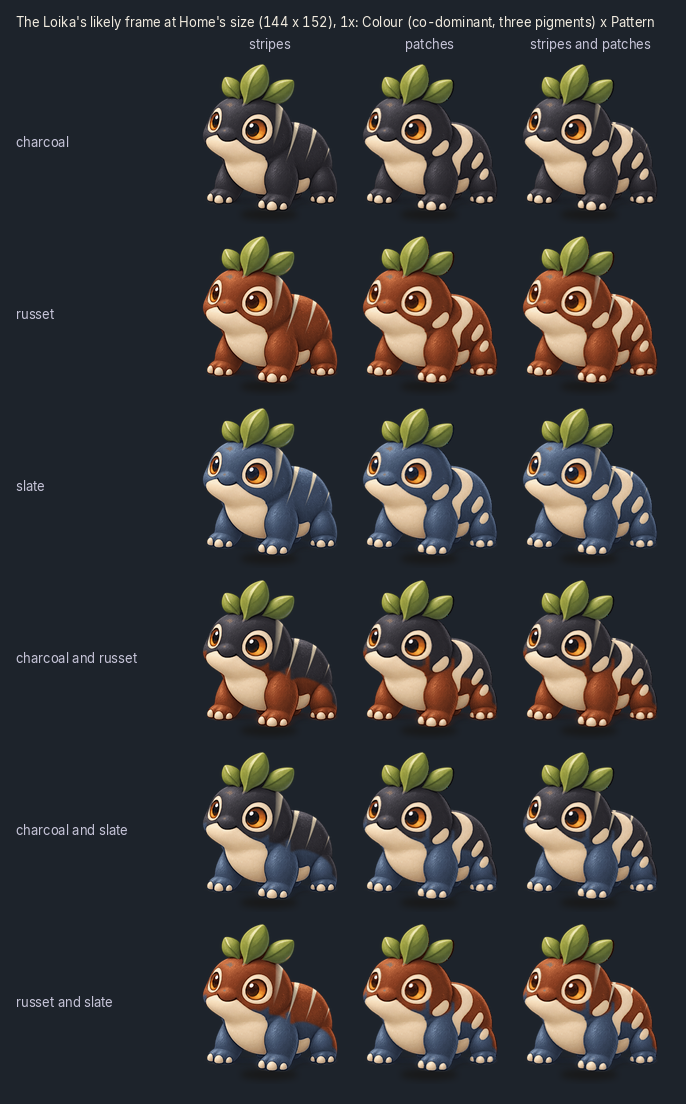
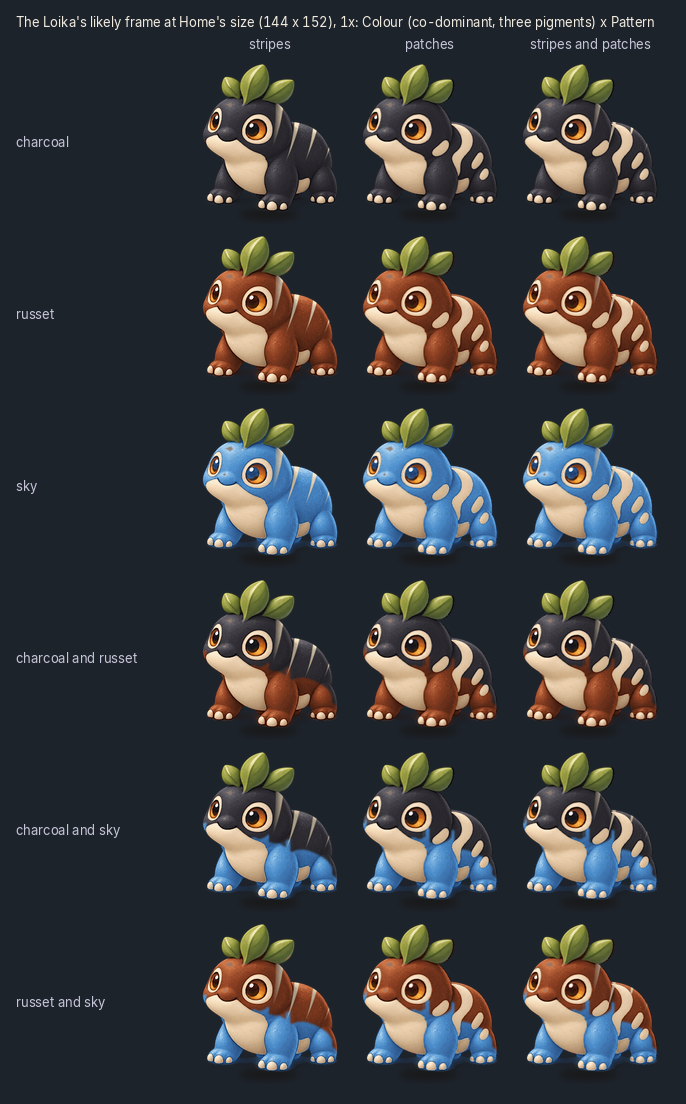
T-20261016-200: sky as the third pigment (passes four-grey), N2 range and the four-grey check

diff --git a/results/T-20261016-200/make-range.py b/results/T-20261016-200/make-range.py
@@ -156,8 +156,9 @@ def stand_v2(colour, pattern):
 
 
 # the genome engineer's likely frame: three co-dominant pigments, six looks; every Loika marked
-RAMPS2 = {'charcoal': ((22, 21, 25), (52, 50, 56), (104, 100, 108)), 'russet': RAMPS['russet'], 'slate': RAMPS['slate']}
-COLOURS2 = ['charcoal', 'russet', 'slate', 'charcoal and russet', 'charcoal and slate', 'russet and slate']
+RAMPS2 = {'charcoal': ((22, 21, 25), (52, 50, 56), (104, 100, 108)), 'russet': RAMPS['russet'],
+          'sky': ((32, 68, 118), (78, 144, 206), (168, 210, 242))}   # the third pigment: a value step above russet, cool against it
+COLOURS2 = ['charcoal', 'russet', 'sky', 'charcoal and russet', 'charcoal and sky', 'russet and sky']
 PATTERNS = ['stripes', 'patches', 'stripes and patches']
 CW2, CH2 = 160, 172
 sh2 = Image.new('RGBA', (190 + len(PATTERNS) * CW2 + 16, 56 + len(COLOURS2) * CH2 + 16), (29, 35, 43, 255))
@@ -176,6 +177,23 @@ for i, col in enumerate(COLOURS2):
         sh2.alpha_composite(s_, (x, base - s_.height))
 sh2.convert('RGB').save(os.path.join(OUT, 'loika-range-likely-frame.png'), optimize=True)
 print('loika-range-likely-frame.png')
+
+# the four-grey check: each look quantised to four values (the guide's colour-alone test)
+def four_grey(img):
+    a = np.asarray(img.convert('RGBA'), dtype=float)
+    lum = a[..., 0] * 0.299 + a[..., 1] * 0.587 + a[..., 2] * 0.114
+    q = np.choose(np.digitize(lum, [64, 128, 192]), [30, 100, 170, 240]).astype('uint8')
+    out = np.dstack([q, q, q, a[..., 3].astype('uint8')])
+    return Image.fromarray(out, 'RGBA')
+
+fg = Image.new('RGBA', (len(COLOURS2) * 150 + 16, 230), (29, 35, 43, 255)); dg = ImageDraw.Draw(fg)
+dg.text((16, 10), 'Four-grey: each coat quantised to four values (stripes and patches)', font=F13, fill=(241, 235, 223))
+for i, col in enumerate(COLOURS2):
+    s_ = four_grey(fit(stand_v2(col, 'stripes and patches'), 144, 152))
+    fg.alpha_composite(s_, (16 + i * 150, 36))
+    dg.text((16 + i * 150 + 72, 206), col, font=F13, fill=(198, 196, 216), anchor='mm')
+fg.convert('RGB').save(os.path.join(OUT, 'loika-four-grey.png'), optimize=True)
+print('loika-four-grey.png')
 
 COLOURS = list(RAMPS)
 MARKS = ['none', 'pale patches', 'spots', 'saddle']

diff --git a/results/T-20261016-200/art-director.md b/results/T-20261016-200/art-director.md
@@ -41,9 +41,14 @@ The owner: "yes, finetune loikas. / also coat marks can be different between ind
 The genome engineer gave the frame's likely shape, so the range follows it. `loika-range-home-size.png` stays as the record of the method; its cocoa, plum, spots and saddle are not in the framework.
 
 **Colour: co-dominant, three pigments, six looks.**
-- **The pigments:** charcoal, russet and a third. I propose **slate** for the third: it is cool beside russet's warmth, it reads on Home's moss, and it isn't green.
+- **The pigments:** charcoal, russet and a third. The list is settled on the genome engineer's N2.
+- **The third is sky,** a clear cerulean.
+  - **Why not slate:** slate failed the four-grey test. Its value sits on russet's, so a russet-and-slate two-tone would merge.
+  - **Why sky:** it is a value step above russet and cool against it, so the three pigments are dark, middle and light (`loika-four-grey.png`), and every two-tone splits into two values.
+  - It reads on Home's moss, it isn't green, and the cream stripes and patches still hold on it.
+  - It is saturated, not pastel, so it doesn't read as a nursery colour.
 - **The three pure looks** are painted ramps, as above.
-- **The three mixed looks** (charcoal and russet, charcoal and slate, russet and slate) are one painted two-tone, not a blend: the first pigment over the back and head, the second over the flanks and legs. The split follows the body (a share of each column of fur from its top), with a short painted edge. A mixed Loika shows both its pigments, and a player can read which two.
+- **The three mixed looks** (charcoal and russet, charcoal and sky, russet and sky) are one painted two-tone, not a blend: the first pigment over the back and head, the second over the flanks and legs. The split follows the body (a share of each column of fur from its top), with a short painted edge. A mixed Loika shows both its pigments, and a player can read which two.
 
 **Pattern: every Loika is marked, three looks that stack.**
 - **Stripes:** broad pale bands behind the shoulder, bowing back down the flank and tapering to a point, shaded by the fur under them. They are a full value step from the coat, so they read on charcoal at 144 × 152 (the creative director's point). They never cross the head.
@@ -52,4 +57,6 @@ The genome engineer gave the frame's likely shape, so the range follows it. `loi
 
 **Amount** (how much of the coat, three bins), if the frame adds it, scales the stripes' count and the patches' coverage within the same layers.
 
-**Still to come:** the frame's final names and hex values, and four real pods for the window.
+**The crest and eyes** are unchanged by N2 and are drawn as T-190's base.
+
+**Still to come:** the four real pods, for the redrawn window.
